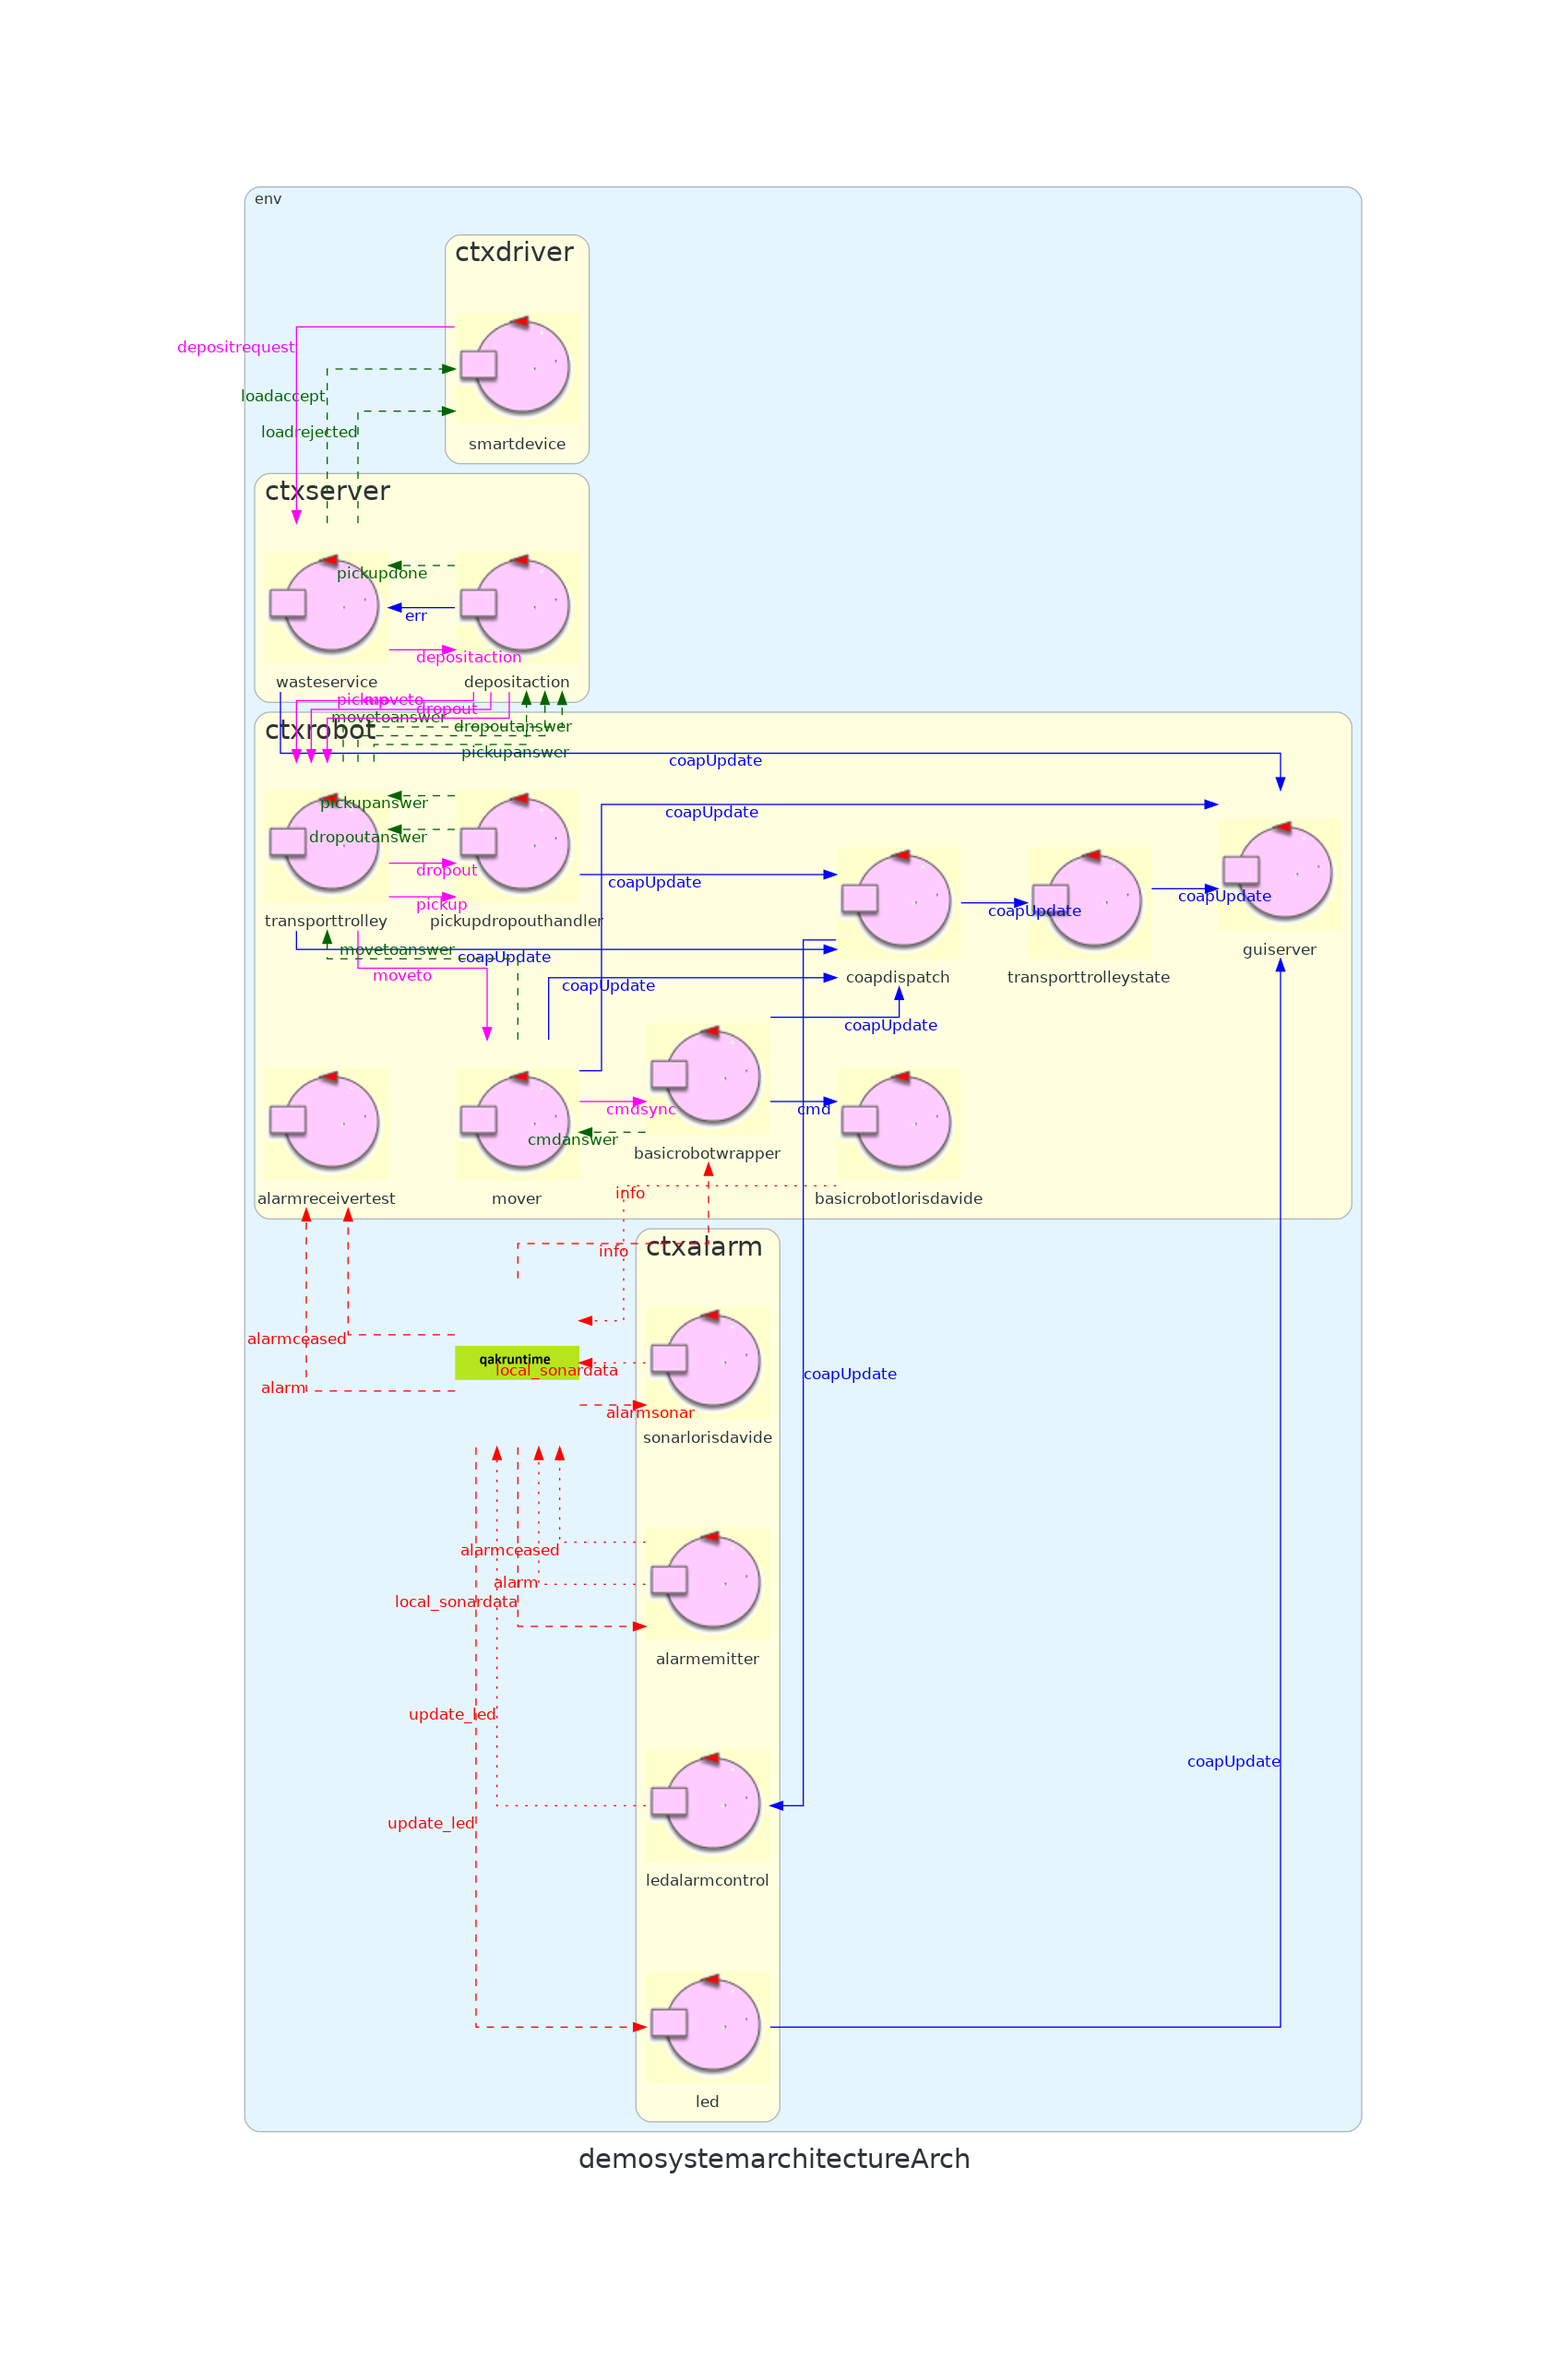
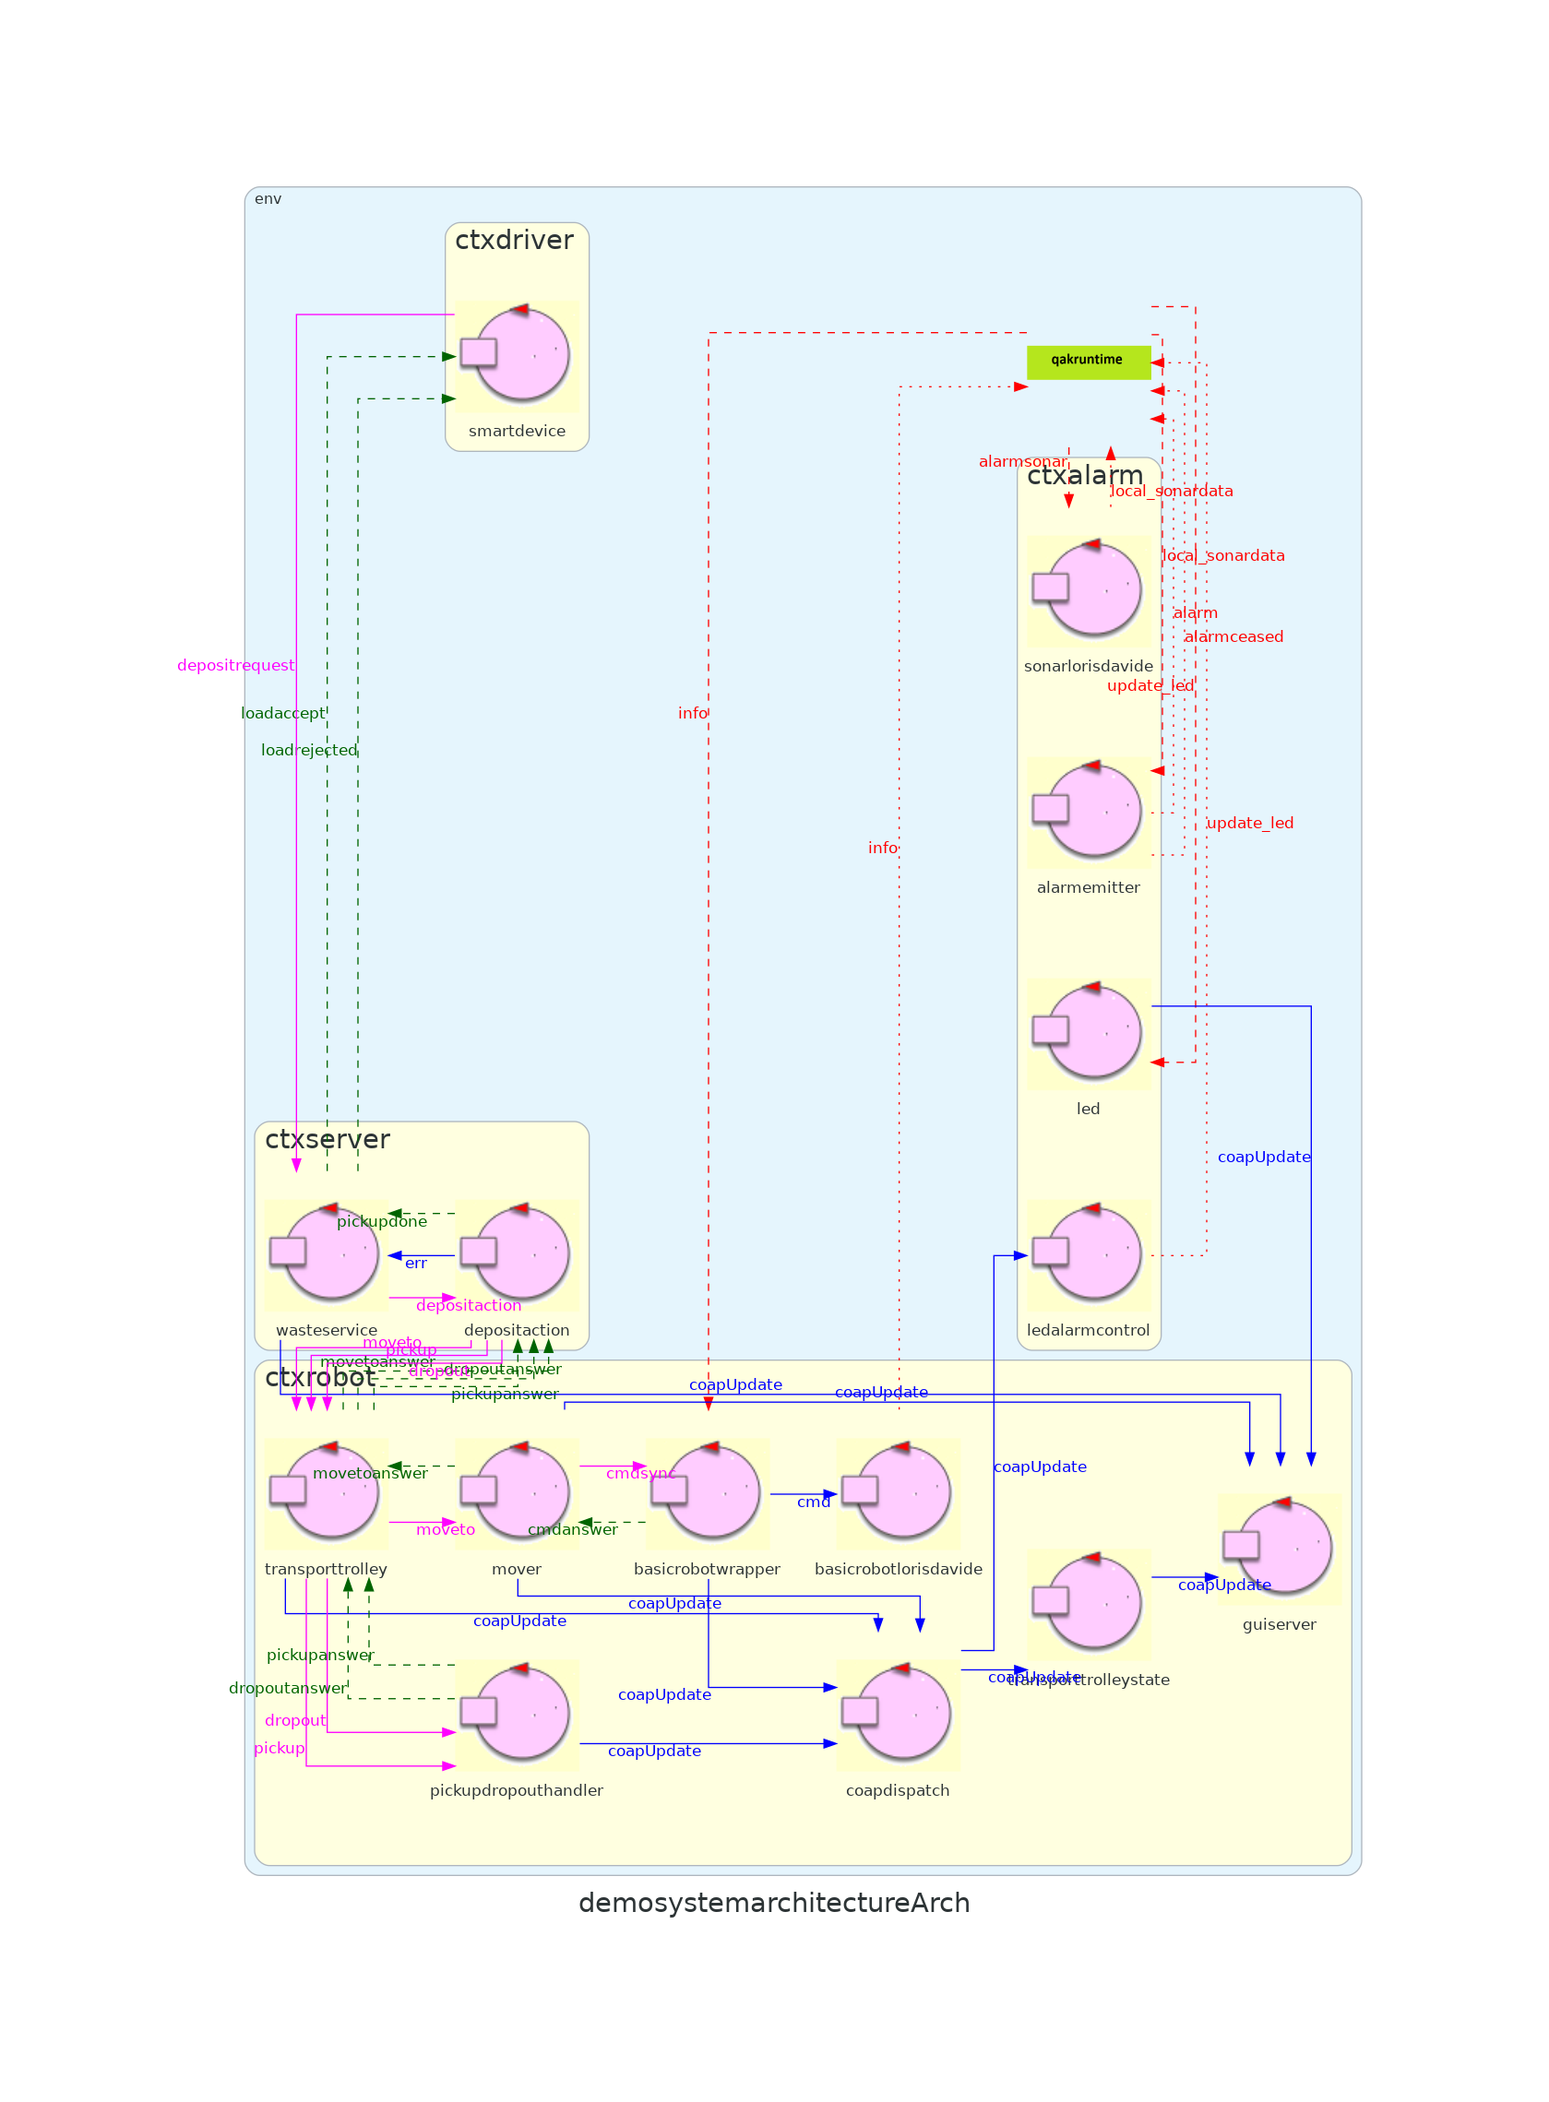
Redraw image problem analysis

diff --git a/sprint3/ProblemQakSprint3v2/Arch_demosystemarchitecture.py b/sprint3/ProblemQakSprint3v2/Arch_demosystemarchitecture.py
@@ -33,7 +33,6 @@ with Diagram('demosystemarchitectureArch', show=False, outformat='png', graph_at
           mover=Custom('mover','./qakicons/symActorSmall.png')
           basicrobotwrapper=Custom('basicrobotwrapper','./qakicons/symActorSmall.png')
           basicrobotlorisdavide=Custom('basicrobotlorisdavide','./qakicons/symActorSmall.png')
-          alarmreceivertest=Custom('alarmreceivertest','./qakicons/symActorSmall.png')
      with Cluster('ctxalarm', graph_attr=nodeattr):
           ledalarmcontrol=Custom('ledalarmcontrol','./qakicons/symActorSmall.png')
           sonarlorisdavide=Custom('sonarlorisdavide','./qakicons/symActorSmall.png')
@@ -79,6 +78,4 @@ with Diagram('demosystemarchitectureArch', show=False, outformat='png', graph_at
      alarmemitter >> Edge( xlabel='alarmceased', **eventedgeattr, fontcolor='red') >> sys
      sys >> Edge(color='red', style='dashed', xlabel='local_sonardata', fontcolor='red') >> alarmemitter
      sys >> Edge(color='red', style='dashed', xlabel='update_led', fontcolor='red') >> led
-     sys >> Edge(color='red', style='dashed', xlabel='alarm', fontcolor='red') >> alarmreceivertest
-     sys >> Edge(color='red', style='dashed', xlabel='alarmceased', fontcolor='red') >> alarmreceivertest
 diag

diff --git a/sprint3/ProblemQakSprint3/Arch_demosystemarchitecture.py b/sprint3/ProblemQakSprint3/Arch_demosystemarchitecture.py
@@ -32,7 +32,6 @@ with Diagram('demosystemarchitectureArch', show=False, outformat='png', graph_at
           mover=Custom('mover','./qakicons/symActorSmall.png')
           basicrobotwrapper=Custom('basicrobotwrapper','./qakicons/symActorSmall.png')
           basicrobotlorisdavide=Custom('basicrobotlorisdavide','./qakicons/symActorSmall.png')
-          alarmreceivertest=Custom('alarmreceivertest','./qakicons/symActorSmall.png')
      with Cluster('ctxalarm', graph_attr=nodeattr):
           sonarlorisdavide=Custom('sonarlorisdavide','./qakicons/symActorSmall.png')
           alarmemitter=Custom('alarmemitter','./qakicons/symActorSmall.png')
@@ -73,6 +72,4 @@ with Diagram('demosystemarchitectureArch', show=False, outformat='png', graph_at
      alarmemitter >> Edge( xlabel='alarmceased', **eventedgeattr, fontcolor='red') >> sys
      sys >> Edge(color='red', style='dashed', xlabel='local_sonardata', fontcolor='red') >> alarmemitter
      sys >> Edge(color='red', style='dashed', xlabel='update_led', fontcolor='red') >> led
-     sys >> Edge(color='red', style='dashed', xlabel='alarm', fontcolor='red') >> alarmreceivertest
-     sys >> Edge(color='red', style='dashed', xlabel='alarmceased', fontcolor='red') >> alarmreceivertest
 diag
